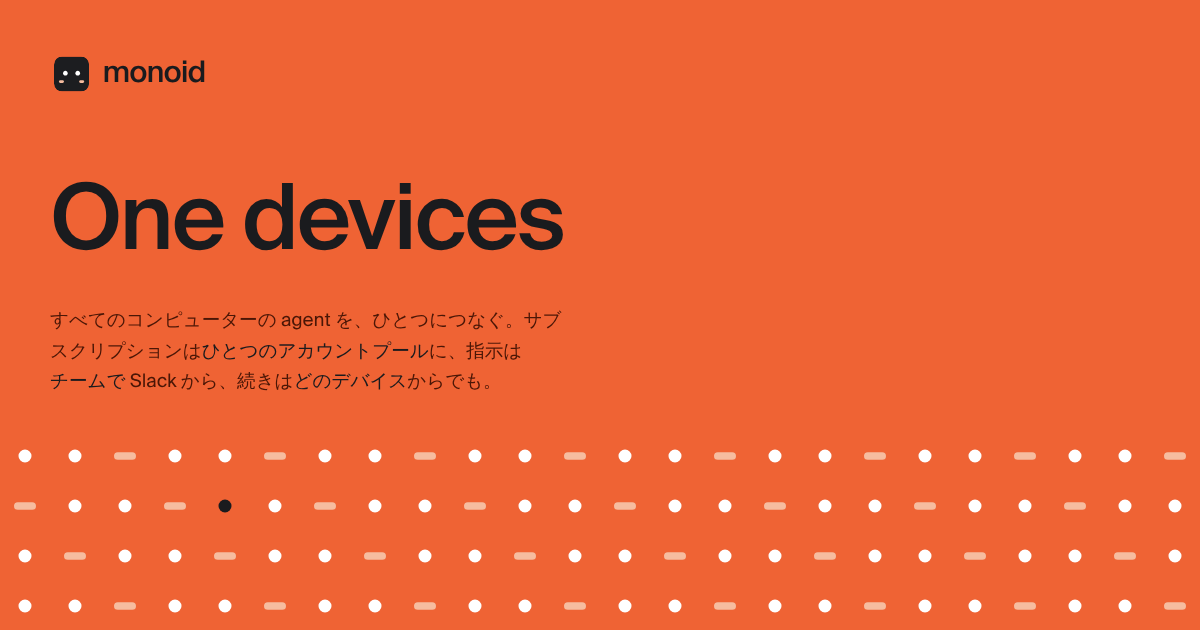
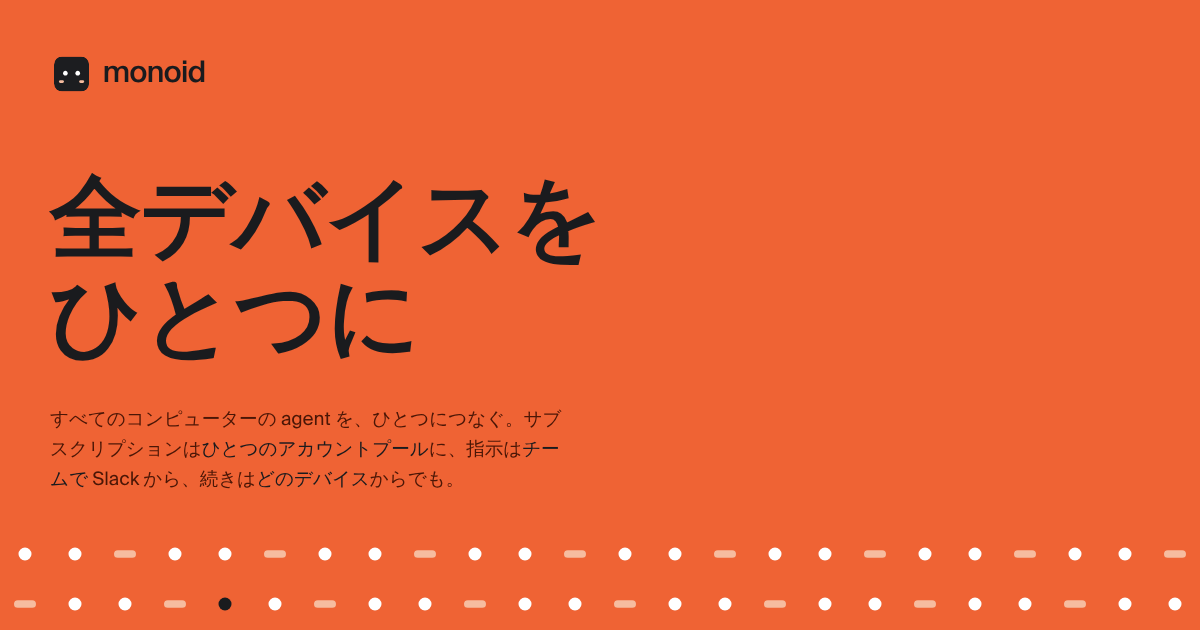
website: translate the brand line (hero headline, title, share cards) in every language
所有设备，合而为一 / 所有裝置，合而為一 / 全デバイスを、ひとつに / 모든 기기를 하나로, the comma breaking the
headline's two lines. .vh (a comma read, not seen) is one rule in 00-base now, so every two-line headline gets it;
the Japanese hero lead lets its bold phrases wrap.

Claude-Session: https://claude.ai/code/session_01G8xv6UgCgTvrX4Mf3WuEhm

diff --git a/website/css/50-teams.css b/website/css/50-teams.css
@@ -15,7 +15,6 @@
 .cell h3 { margin-top: clamp(20px, 1.8vw, 28px); font-size: clamp(17px, 1.3vw, 20px); line-height: 1.3; letter-spacing: -.008em; display: flex; align-items: center; gap: 10px; }
 .cell h3 svg { width: 18px; height: 18px; color: var(--ink); flex: none; }
 /* The headline breaks where its comma was; the comma stays for screen readers. */
-#teams-title .vh { position: absolute; width: 1px; height: 1px; overflow: hidden; clip-path: inset(50%); white-space: nowrap; }
 .cell > p { margin-top: 8px; color: var(--graphite); font-size: var(--t-small); line-height: 1.6; text-wrap: pretty; max-width: 34em; }
 
 /* The picture's ground: a faint dot grid, as Reducto's, with a mono tag naming what is shown. */

diff --git a/website/css/20-hero.css b/website/css/20-hero.css
@@ -16,6 +16,8 @@
 .hero .lead { max-width: min(max(calc(var(--u) * 11), 20em), 28em); color: var(--brand-ink); text-wrap: pretty; } /* zh: two lines, the break after 订阅， */
 :root:not(:lang(zh), :lang(ja), :lang(ko)) .hero .lead { max-width: min(max(calc(var(--u) * 11), 20em), 30em); }
 .hero .lead b { color: var(--ink); font-weight: 500; white-space: nowrap; }
+/* Japanese runs long phrases with no spaces: a bold phrase kept whole would break the line early. */
+:root:lang(ja) .hero .lead b { white-space: normal; }
 .hero .lead .nb { white-space: nowrap; } /* no lone 干。 on the last line (WebKit has no text-wrap: pretty yet) */
 .hero .actions { justify-content: flex-end; }
 

diff --git a/website/index.html b/website/index.html
@@ -125,7 +125,7 @@
 <!-- ============ Hero: Base ground, the field of the mark below ============ -->
 <section class="band hero" data-tone="brand" aria-labelledby="hero-title">
   <div class="w">
-    <h1 id="hero-title" class="display">One devices</h1>
+    <h1 id="hero-title" class="display"><span data-t="hero.one-devices.6d97">One devices</span></h1>
     <div class="hero-body">
       <p class="lead">
         <span data-t="hero.monoid-joins-the-agents.967e">monoid joins the agents on all your computers into one. <b>One account pool</b> for your subscriptions, <b>one team</b> directing them from Slack, <b>every device</b> picking up where you left&nbsp;off.</span>

diff --git a/website/css/00-base.css b/website/css/00-base.css
@@ -111,6 +111,8 @@ img, svg, video, canvas { display: block; max-width: 100%; }
   .link:hover, :where(p, li, dd) > a:not([class]):hover { text-decoration-color: currentColor; }
 }
 .nb { white-space: nowrap; }
+/* Read, not seen: a headline's comma where a <br> breaks the line instead (CJK two-line headlines). */
+.vh { position: absolute; width: 1px; height: 1px; overflow: hidden; clip-path: inset(50%); white-space: nowrap; }
 /* ---------- Type ---------- */
 h1, h2, .display { font-weight: 600; text-wrap: balance; }
 h1, .display { font-size: var(--t-display); line-height: var(--lh-display); letter-spacing: var(--tr-display); }

diff --git a/website/css/90-end.css b/website/css/90-end.css
@@ -14,7 +14,6 @@
 }
 .band.end h2 { font-size: var(--t-display); line-height: var(--lh-display); letter-spacing: var(--tr-display); max-width: 13ch; margin-inline: auto; }
 /* The comma the line break replaces, for screen readers only. */
-.band.end h2 .vh { position: absolute; width: 1px; height: 1px; overflow: hidden; clip-path: inset(50%); white-space: nowrap; }
 .band.end .lead { color: var(--brand-ink); margin: clamp(16px, 1.6vw, 24px) auto 0; text-wrap: balance; }
 .band.end .actions { justify-content: center; margin-top: clamp(28px, 2.6vw, 40px); }
 .band.end .field-wrap { height: calc(var(--fc) * 3); }

diff --git a/website/css/40-pool.css b/website/css/40-pool.css
@@ -119,7 +119,6 @@
 }
 
 /* The headline breaks where its comma was; the comma stays for screen readers only. */
-#pool-title .vh { position: absolute; width: 1px; height: 1px; overflow: hidden; clip-path: inset(50%); white-space: nowrap; }
 
 /* ---------- The narrowest phones (iPhone SE): one figure per row, so the captions don't wrap to a word a line ---------- */
 @media (max-width: 374px) {

diff --git a/website/README.md b/website/README.md
@@ -64,10 +64,10 @@ narrower), Latin the rest; Chinese and Japanese headlines use half-width punctua
 words whole (`keep-all`), Japanese breaks between phrases (`auto-phrase`) where the browser can. A headline's text is
 one `<span>` (its translation), which those rules select.
 
-**The brand line stays English.** "One devices" (the hero's `<h1>`, the `<title>` and `og:title`, the share cards)
-is the product's line, written in English on every page, as the bilingual page had it in Chinese too; it has no
-`data-t` in the hero, and each language's `meta.monoid-one-devices.*` is the English on purpose. To translate the title,
-change those entries; to translate the headline, give it a `data-t` and `--rekey`.
+**The brand line is translated.** "One devices" (the hero's `<h1>`, `hero.one-devices.*`, and the `<title>` /
+`og:title`, `meta.monoid-one-devices.*`) is said in each language: 所有设备，合而为一 / 所有裝置，合而為一 /
+すべてのデバイスを、ひとつに (the headline, shorter: 全デバイスを、ひとつに) / 모든 기기를 하나로. In the headline the comma breaks the line (a visually hidden comma and a
+`<br>`, so it still reads as one sentence); the share cards in `assets/og/` show each language's line.
 
 ### Changing the copy
 
